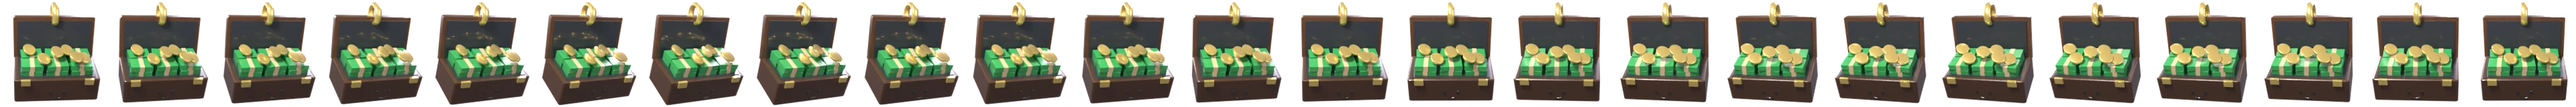
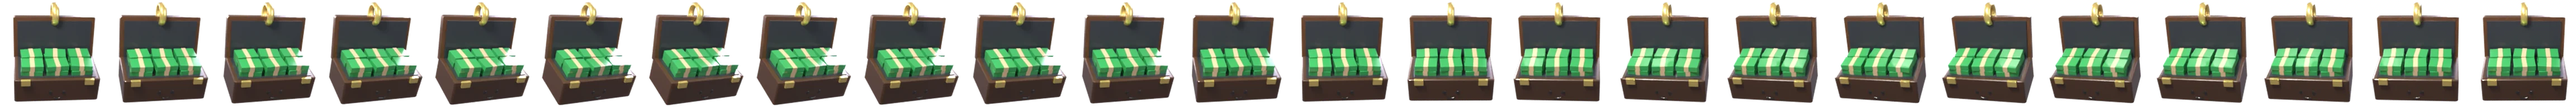
Game checkpoint briefcase: banknote bundles only, no coins on top
Claude-Session: https://claude.ai/code/session_019fbWZCuFJHkf5tasQWWvE6

Changed region(s): [[0.0, 0.4062, 1.0, 0.625], [0.2188, 0.3125, 0.3125, 0.375], [0.3438, 0.3438, 0.375, 0.375]]

diff --git a/scripts/icons/objects.py b/scripts/icons/objects.py
@@ -421,7 +421,7 @@ def o_pu_x2():
     return [t], []
 
 def o_case():
-    """checkpoint: an open briefcase full of green banknote bundles and gold coins, with a face on the front"""
+    """checkpoint: an open briefcase full of green banknote bundles, with a face on the front"""
     leather = plastic('leather', (0.06, 0.025, 0.01), 0.35); lining = plastic('lining', smiley.PAL['graphite'])
     note = plastic('notes', (0.03, 0.32, 0.08)); band = plastic('band', smiley.PAL['sheen'])
     base = box('base', leather, (0, 0, -0.3), (1.9, 1.05, 0.6), bv=0.07)
@@ -438,8 +438,6 @@ def o_case():
             for k in range(2):
                 parts.append(box('bundle', note, (x, y, 0.06 + 0.13 * k), (0.48, 0.34, 0.12), (0, 0, math.radians(5 * ((i + j + k) % 3 - 1))), bv=0.015))
                 parts.append(box('band', band, (x, y, 0.06 + 0.13 * k), (0.1, 0.36, 0.13), (0, 0, math.radians(5 * ((i + j + k) % 3 - 1))), bv=0))
-    for (x, y, z) in ((-0.3, -0.25, 0.38), (0.25, 0.1, 0.38), (0.6, -0.2, 0.36), (-0.6, 0.15, 0.37), (0.0, -0.1, 0.46), (0.4, -0.3, 0.45)):
-        parts.append(cyl(gold(), (x, y, z), 0.15, 0.05, (math.radians(15), math.radians(20), 0), 32, 0.01))
     fc = face([base], 0, -0.28, 0.75)
     hub = link(bpy.data.objects.new('tilt', None)); bpy.context.view_layer.update()
     for o in parts + fc:
